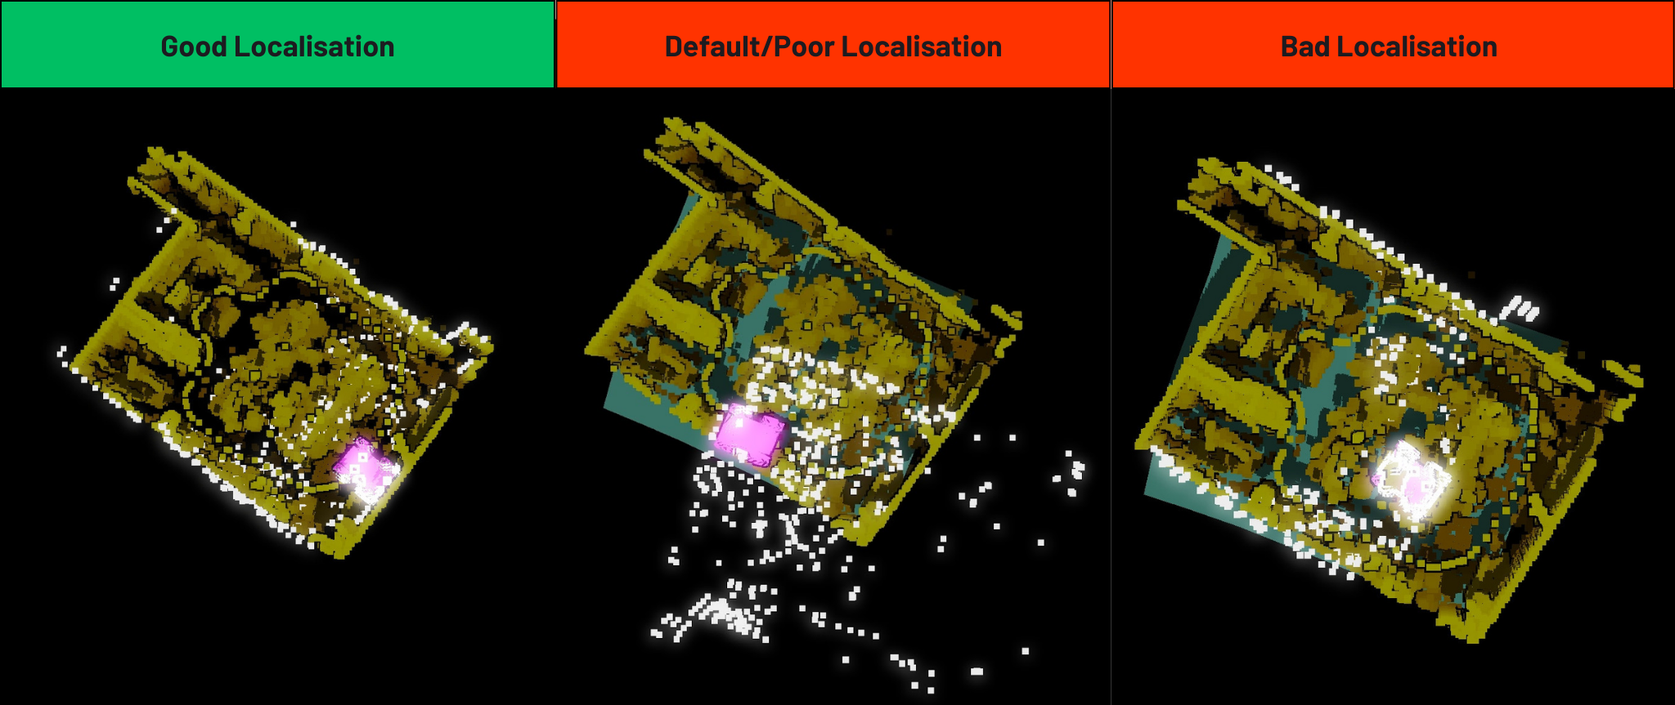
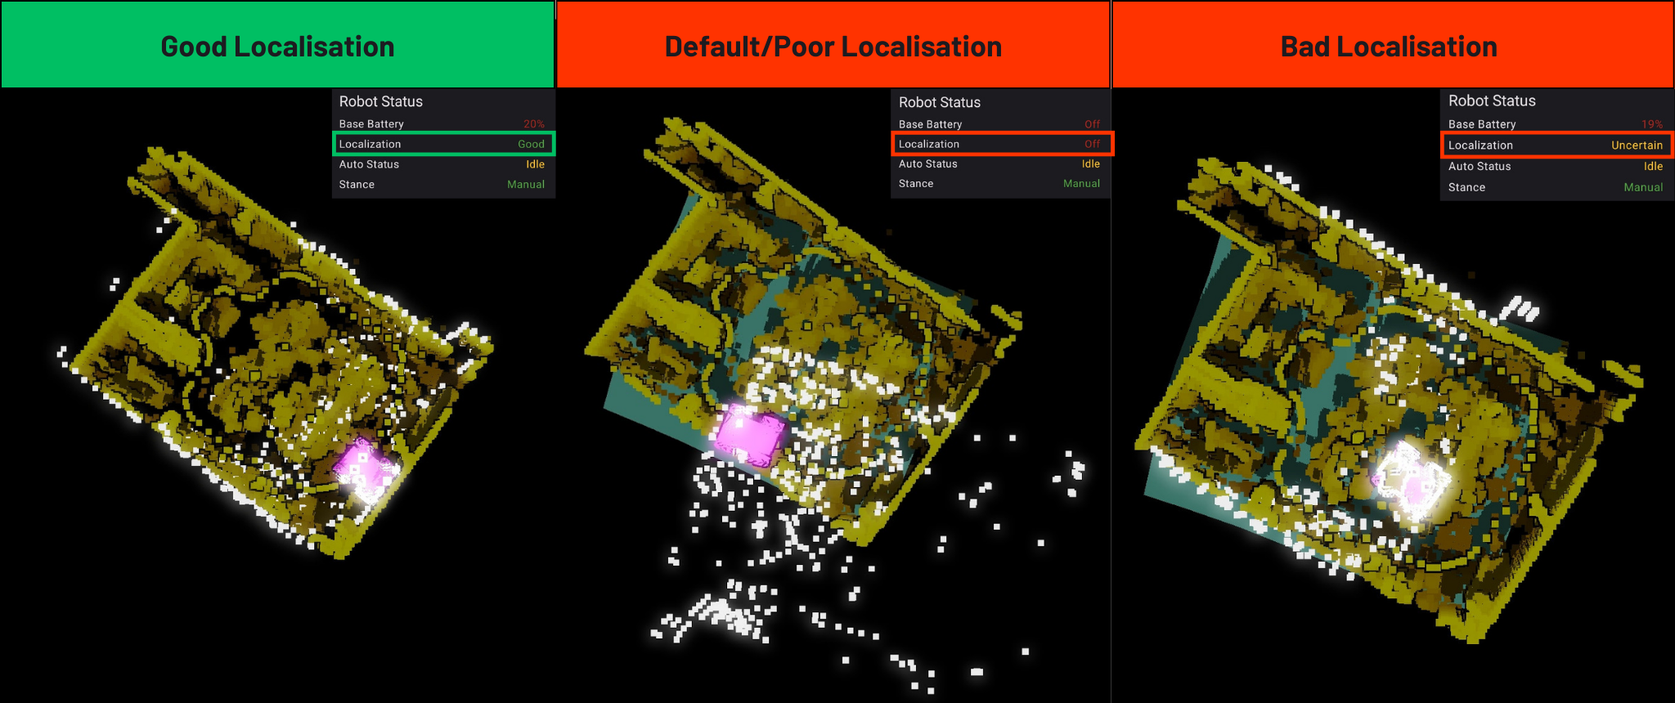
final draft

diff --git a/docs/dash-nav/dash-nav.md b/docs/dash-nav/dash-nav.md
@@ -53,19 +53,19 @@ An internet connection from your robot is required. Should you require d.ASH Nav
 
 ![Functionality Icon](img/pointer.png){ style="height:20px;" } Pilot
 
-Our Pilot framework offers high-performance, low-latency, long-range remote operations. It allows you to take manual control of your robots at any time, from any distance, and in any environment.
+Control your robots manually with low latency and high performance at any time, from any location, and in any setting.
 
 ![Functionality Icon](img/pointer.png){ style="height:20px;" } Live Video Streaming
 
-Our ultra-high-speed data streaming enables Pilot to stream live video feeds from robots, facilitating operation in environments with weak network infrastructure. Stay connected with minimal latency, you can take control across the country with d.ASH Nav.
+Use d.ASH Nav to stream live video camera feeds from your robots, facilitating operation in environments with weak network infrastructure. Stay connected with minimal latency and take control of your robot across the country with d.ASH Nav.
 
 ![Functionality Icon](img/pointer.png){ style="height:20px;" } Waypoint Autonomy
 
-d.ASH Nav determines the real-time location of connected robots within millimetres. Just drop and add waypoints like markings on a map to automated patrol routes all thanks to d.ASH Nav’s seamless UI.
+Empower your robots with d.ASH Nav's advanced route creation and optimization capabilities. Seamlessly set precise routes and execute BLK scans tailored to your unique use cases. Elevate your automation experience with our state-of-the-art Waypoint Autonomy feature.
 
 ![Functionality Icon](img/pointer.png){ style="height:20px;" } Enhanced Safety and Risk Mitigation
 
-The software’s intelligent decision-making capabilities enable robots to make informed choices to avoid obstacles and optimize their routes, mitigating potential risks and enhancing overall safety. This not only protects the robots themselves but also minimizes the risk of accidents or collisions with humans and other objects in the environment.
+d.ASH Nav enables robots to make informed choices to avoid obstacles and optimize their routes, mitigating potential risks while running routes and enhancing overall safety. This not only protects the robots themselves but also minimizes the risk of accidents or collisions with humans and other objects in the environment.
 
 Now, let's explore how to make the most out of d.ASH Nav on your devices.
 
@@ -74,7 +74,7 @@ Now, let's explore how to make the most out of d.ASH Nav on your devices.
 <div id="section2"></div> 
 
 ### 2. d.ASH Nav for Android
-This comprehensive guide will walk you through setting up the application and provide detailed insights into every function of the d.ASH Nav Mobile App. Additionally, you'll find step-by-step instructions on how to seamlessly control your robots directly from your mobile device.
+This comprehensive guide will walk you through setting up the application and give you detailed insights into every function of the d.ASH Nav Android Application. Additionally, you'll find step-by-step instructions on how to control your robots directly from your devices and create routes for waypoint automation.
 
 <div id="section2_1"></div> 
 
@@ -82,10 +82,10 @@ This comprehensive guide will walk you through setting up the application and pr
 Before installing, ensure that your mobile device meets the minimum system requirements. 
 
 #### Minimum System Requirements 
-Android Tablet with support for OpenGL ES 3.2
-Operating System: Android Version 13 | Tiramisu | API Level 33 
-CPU: Qualcomm SM7125 Snapdragon 720G (8 nm)
-GPU: Adreno 618
+Android Tablet with support for OpenGL ES 3.2<br>
+Operating System: Android Version 13 | Tiramisu | API Level 33<br>
+CPU: Qualcomm SM7125 Snapdragon 720G (8 nm)<br>
+GPU: Adreno 618<br>
 RAM: 4 GB
 
 <div id="section2_2"></div> 
@@ -104,14 +104,14 @@ The following section provides a step-by-step guide to help you record and set y
 | Instructions |
 | ------- | 
 | <div class="instructions-div"><div class="instruction-circle">1</div><p style="margin: 0; margin-left: 5px;">Connect to your robot and load your map into the application. </p></div><font size="3"><font size="2"> Refer to <a href="#section3_1">Section 3.1</a> and <a href="#section3_2">Section 3.2</a> for a guide for your robot and map respectively.|
-| <div class="instructions-div"><div class="instruction-circle">2</div><p style="margin: 0; margin-left: 5px;">Navigate into the ready tab and select localise. </p></div><font size="3"><font size="2"> Refer to <a href="#section5_3">Section 5.3</a> for a guide to giving your robot a good initial pose estimate. |
-| <div class="instructions-div"><div class="instruction-circle">3</div><p style="margin: 0; margin-left: 5px;">Inside the plan tab, select add new route and give your route a name.</p></div><font size="3">![Add Route Button](img/add-route-button.jpg){ style="width: 300px; margin-top: 10px;" }<br><font size="2"> Choose a name that is both memorable and descriptive. |
-| <div class="instructions-div"><div class="instruction-circle">4</div><p style="margin: 0; margin-left: 5px;">Press the record route button at the bottom right to record your route by moving the robot.</p></div><font size="3">![Record Route Button](img/record-route-button.jpg){ style="width: 50px; margin-top: 10px; }<br><font size="2"> Alternatively, you can refer to <a href="#section6_1_2">Section 6.1.2</a> to learn how to record your route by manually plotting waypoints onto the map. |
-| <div class="instructions-div"><div class="instruction-circle">5</div><p style="margin: 0; margin-left: 5px;">Use the joysticks to drive your robot along your preferred route. </p></div><font size="3"><font size="2"> Be sure to change the recording intervals and make use of the add point buttons while recording your route. For example, at sharp turns, you can change the recording interval lower to about 1 metre. |
-| <div class="instructions-div"><div class="instruction-circle">6</div><p style="margin: 0; margin-left: 5px;">Once you are satisfied with your route, select save recorded route.   </p></div><font size="3"><font size="2"> Or, if you would like to restart, select discard route at the bottom.  |
-| <div class="instructions-div"><div class="instruction-circle">7</div><p style="margin: 0; margin-left: 5px;">Optional: Choose the points in your route where you would like your robot to apply a BLK scan. </p></div><font size="3"><font size="2"> Refer to <a href="section6_1_4">Section 6.1.4</a> for a full guide on choosing waypoints to apply BLK scans.|
-| <div class="instructions-div"><div class="instruction-circle">8</div><p style="margin: 0; margin-left: 5px;">In the list of routes, press the route you just created and select set route located at the bottom of the screen. </p></div><font size="3"> |
-| <div class="instructions-div"><div class="instruction-circle">9</div><p style="margin: 0; margin-left: 5px;">Head back to the ready tab and change the control mode at the bottom to auto. </p></div><font size="3">![Control Mode Auto Toggle](img/control-mode-auto-toggle.png){ style="width: 300px; margin-top: 10px;" }<br><font size="2"> Well done! Your robot is now running on your recorded route that you have made.   |
+| <div class="instructions-div"><div class="instruction-circle">2</div><p style="margin: 0; margin-left: 5px;">Localise your robot onto the map. </p></div><font size="3"><font size="2"> Refer to <a href="#section5_3">Section 5.3</a> for a guide to giving your robot a good initial pose estimate. |
+| <div class="instructions-div"><div class="instruction-circle">3</div><p style="margin: 0; margin-left: 5px;">Inside the plan tab, select 'Add Route' and give your new route a name.</p></div><font size="3">![Add Route Button](img/add-route-button.jpg){ style="width: 300px; margin-top: 10px;" }<br><font size="2"> Choose a name that is both memorable and descriptive. |
+| <div class="instructions-div"><div class="instruction-circle">4</div><p style="margin: 0; margin-left: 5px;">Select the route you just created and press the 'Record Route' button at the bottom right to record your route by manually moving your robot.</p></div><font size="3">![Record Route Button](img/record-route-button.png){ style="width: 1000px; margin-top: 10px;"}<br><font size="2"> Alternatively, you can refer to <a href="#section6_1_2">Section 6.1.2</a> to learn how to record your route by manually plotting waypoints onto the map. |
+| <div class="instructions-div"><div class="instruction-circle">5</div><p style="margin: 0; margin-left: 5px;">Use the joysticks to drive your robot along your preferred route. </p></div><font size="3"><font size="2"> Be sure to change the recording intervals and make use of the 'Add Point' buttons while recording your route. For example, when turning the robot, you can lower down the recording interval to about 1 metre for a better route recording, or use the 'Add Point' button to plot waypoints close to each other in this turn. |
+| <div class="instructions-div"><div class="instruction-circle">6</div><p style="margin: 0; margin-left: 5px;">Once you are satisfied with your route, select 'Save Recorded Route'.   </p></div><font size="3"><font size="2"> Or, if you would like to restart, select discard route at the bottom.  |
+| <div class="instructions-div"><div class="instruction-circle">7</div><p style="margin: 0; margin-left: 5px;">Optional: Choose the points in your route where you would like your robot to apply a BLK scan. </p></div><font size="3"><font size="2"> Refer to <a href="#section6_1_3_2">Section 6.1.3.2</a> for a full guide on choosing waypoints to apply BLK scans.|
+| <div class="instructions-div"><div class="instruction-circle">8</div><p style="margin: 0; margin-left: 5px;">In the list of routes, press the route you just created and select 'Set Route' located at the bottom of the screen. </p></div><font size="3"> |
+| <div class="instructions-div"><div class="instruction-circle">9</div><p style="margin: 0; margin-left: 5px;">Head back to the 'Ready' tab and change the control mode at the bottom to 'Auto'. </p></div><font size="3">![Control Mode Auto Toggle](img/control-mode-auto-toggle.png){ style="width: 300px; margin-top: 10px;" }<br><font size="2"> Well done! Your robot is now running on your recorded route that you have made.   |
 
 If you do not have access to internet at the location where you want to run your robot processes, you can use [Offline Mode](#section7).
 
@@ -122,7 +122,7 @@ If you do not have access to internet at the location where you want to run your
 ### 3. Welcome to d.ASH Nav Mobile!
 
 After signing into your account, you'll be directed to the main page where you need to load your robot and map files in order to get started.
-![d.ASH Nav Home Page](img/dash-nav-home-page.jpg){ style="width: 1000px; margin-top: 10px; }
+![d.ASH Nav Home Page](img/dash-nav-home-page.jpg){ style="width: 1000px; margin-top: 10px;"}
 
 <div id="section3_1"></div>
 
@@ -130,9 +130,9 @@ After signing into your account, you'll be directed to the main page where you n
 
 | Instructions |
 | ------- | 
-| <div class="instructions-div"><div class="instruction-circle">1</div><p style="margin: 0; margin-left: 5px;">Turn on your robot</p></div><font size="3"><font size="2"> Typically, robots are activated automatically by attaching a battery and pressing the Power ON button/switch. However, for robots that require activation through software, like the Boston Dynamics Spot, please refer to the detailed instructions provided on the robot manufacturer's website for specific guidance. |
-| <div class="instructions-div"><div class="instruction-circle">2</div><p style="margin: 0; margin-left: 5px;">Connect to the robot's WiFi network</p></div><font size="3"><font size="2"> Open your mobile device's settings app, click on Connections -> Wi-Fi, and then connect to the network of your robot. After a successful connection, you should see 'Connected without internet' below the Wi-Fi network. If no network is found, it indicates that your robot may not have been turned on properly. |
-| <div class="instructions-div"><div class="instruction-circle">3</div><p style="margin: 0; margin-left: 5px;">Return to the application. On the left hand side, click here to select your robot.</p></div><font size="3"><font size="2">![Select Robot](img/select-robot.png){ style="margin-top: 10px; } |
+| <div class="instructions-div"><div class="instruction-circle">1</div><p style="margin: 0; margin-left: 5px;">Turn on your robot.</p></div><font size="3"><font size="2"> Typically, robots are activated automatically by attaching a battery and pressing the Power ON button/switch. However, for robots that require activation through software, like the Boston Dynamics Spot, please refer to the detailed instructions provided on the robot manufacturer's website for specific guidance. |
+| <div class="instructions-div"><div class="instruction-circle">2</div><p style="margin: 0; margin-left: 5px;">Ensure that your device is connected to the internet.</p></div><font size="3"><font size="2">  |
+| <div class="instructions-div"><div class="instruction-circle">3</div><p style="margin: 0; margin-left: 5px;">Return to the application. On the left hand side, click on this button boxed in red to select your robot.</p></div><font size="3"><font size="2">![Select Robot](img/select-robot.png){style="margin-top: 10px;"} |
 | <div class="instructions-div"><div class="instruction-circle">4</div><p style="margin: 0; margin-left: 5px;">Choose the robot that you intend to use.</p></div><font size="3"><font size="2"> If your robot is not found, try to hard restart your robot or contact us for support. |
 
 <div id="section3_2"></div>
@@ -142,15 +142,13 @@ After signing into your account, you'll be directed to the main page where you n
 | Instructions |
 | ------- | 
 | <div class="instructions-div"><div class="instruction-circle">1</div><p style="margin: 0; margin-left: 5px;">Ensure that you have your map file.</p></div><font size="3"><font size="2"> If you do not have one, please refer to our [d.ASH Pack](https://dconstruct-tech.github.io/dash-sdk/dash-pack/dash-pack/) guide to create your map.|
-| <div class="instructions-div"><div class="instruction-circle">2</div><p style="margin: 0; margin-left: 5px;">On the left hand side, click on this button to select your map.</p></div><font size="3"><font size="2">![Select Map Button](img/select-map-button.png){style="margin-top: 10px;"}|
+| <div class="instructions-div"><div class="instruction-circle">2</div><p style="margin: 0; margin-left: 5px;">On the left hand side, click on this button boxed in red to select your map.</p></div><font size="3"><font size="2">![Select Map Button](img/select-map-button.png){style="margin-top: 10px;"}|
 | <div class="instructions-div"><div class="instruction-circle">3</div><p style="margin: 0; margin-left: 5px;">Select the map that you intend to use.</p></div><font size="3"><font size="2">![Select Map Panel](img/select-map-panel.jpg){style="margin-top: 10px;"}|
 
-
-Your robot and map has now been imported into d.ASH Nav. 
+Your robot and map has now been loaded into d.ASH Nav. 
 ![Both Robot and Map Imported](img/both-imported-view.png){style="margin-top: 10px;"}
 
-Select the menu icon on the top right hand corner to open up the options menu, where all functions and configurations are found.<br> 
-
+Select the 'Menu' icon on the top right hand corner to open up the options menu, where all functions and configurations are found.<br> 
 
 The following sections will go over the functions in the <a href="#section4">View</a> tab, which is responsible for changing the view of your map, as well as the <a href="#section6">Plan</a> and <a href="#section5">Ready</a> tabs which are responsible for all robot operations. 
 
@@ -161,29 +159,30 @@ The following sections will go over the functions in the <a href="#section4">Vie
 <div id="section4"></div>
 
 ### 4. View Tab
-The view tab contains options for changing the view and configuring the map that was imported into the application.
+The view tab contains options for changing the view and configuring the map that was loaded into the application.
 
 <div id="section4_1"></div>
 
 #### 4.1 Adjusting your view of the map
 ![Functionality Icon](img/pointer.png){ style="height:20px;" } Pinch to zoom in or zoom out
+
 ![Functionality Icon](img/pointer.png){ style="height:20px;" } Swipe with one finger to adjust view angle
+
 ![Functionality Icon](img/pointer.png){ style="height:20px;" } Swipe with two fingers to move around the map
 
 ![Adjust View GIF](img/adjust-view.gif)
 
-Select this button on the top left corner to reset view to default. 
+Select this button on the top left corner to reset view to default.<br>
 ![Reset View Button](img/reset-view.png){style="margin-top: 10px;"}
 
 <div id="section4_2"></div>
 
 #### 4.2 Map View Configurations
 ##### Clipping 
-Move the points on the range slider to adjust how much floor/ceiling is shown on the map of your application. 
+Move the points on the range slider to adjust how much floor/ceiling is shown on the map of your application.
 ![Clipping Visualisations](img/clipping.png){style="width: 600px; margin-top: 10px;" }
 
 ##### Contours
-Toggle on and off or adjust the contour level to change the amount of detail in data points. 
 Toggle on and off or adjust the contour level to adjust contour sensitivity. 
 ![Contour Visualisations](img/contour.png){style="width: 600px; margin-top: 10px;"}
 
@@ -191,12 +190,10 @@ Toggle on and off or adjust the contour level to adjust contour sensitivity.
 
 #### 4.3 Example of a bad map visualization
 The View Tab allows you to customise your map-viewing experience within the application. It provides you with the flexibility to configure the settings according to your preferences. While keeping the default settings is perfectly acceptable, it's recommended to adjust the thumbs in a way that ensures the floor of the map is visible, the ceiling is hidden, and artefacts remain visible for optimal viewing.
-
-![Bad Visualisations Example](img/bad-visualization.jpg){style="width: 600px;"}
+![Bad Visualisations Example](img/bad-visualization.jpg){style="width: 600px; margin-top: 10px;"}
 
 The ceiling covers the entire map and you are unable to see the artifacts below, hence this is a bad map visualization. To make this visualization better and clearer, let's adjust the ceiling knob lower until the ceiling is hidden.
-
-![Adjust Ceiling GIF](img/adjust-ceiling.gif){style="width: 600px; "}
+![Adjust Ceiling GIF](img/adjust-ceiling.gif){style="width: 600px; margin-top: 10px;"}
 
 This way, we can better see where our robot is located on the map when we run a route or control the robot.
 
@@ -205,16 +202,14 @@ This way, we can better see where our robot is located on the map when we run a 
 <div id="section5"></div>
 
 ### 5. Ready Tab
-Within this tab, you will find all the functions for managing the robot's live video streaming, manual controlling, and localization, which is essential for the Plan tab. 
+Within this tab, you will find all the functions for managing the robot's live video camera streaming, taking manual control of your robot, and localisation, which is essential for the 'Plan' tab. 
 
 <div id="section5_1"></div>
 
 #### 5.1 Live video streaming 
 To see your robot's camera view, select or toggle the camera options here. This can be found in the options menu on the right. 
-
-![Camera View GIF](img/camera-view.gif){style="width: 600px;"}
-
-You can also enlarge the camera view by pressing the enlarge button on the top left corner and adjust the size to your preference. 
+![Camera View GIF](img/camera-view.gif){style="width: 600px; margin-top: 10px;"}
+You can also enlarge the camera view by pressing the enlarge button on the top left corner and adjusting the size to your preference. 
 
 <div id="section5_2"></div>
 
@@ -222,27 +217,25 @@ You can also enlarge the camera view by pressing the enlarge button on the top l
 
 | Instructions |
 | ------- | 
-| <div class="instructions-div"><div class="instruction-circle">1</div><p style="margin: 0; margin-left: 5px;">To move your robot, switch the control mode at the bottom of the application to manual mode.</p></div><fonst size="3">![Control Mode Toggle](img/control-mode-toggle.png){style="width: 300px; margin-top: 10px;"}<br><font size='2'>Ensure that you are on the ready tab. |
-| <div class="instructions-div"><div class="instruction-circle">2</div><p style="margin: 0; margin-left: 5px;"> Use the joysticks at the bottom to move your robot. </p></div><font size="3">![Manual Control Mode](img/manual-control-mode.jpg){style="width: 400px; margin-top: 10px;"}<font size="2"><br>The joystick on the left is used to move the robot front and backwards, while the right joystick is used to turn the robot left and right.|
+| <div class="instructions-div"><div class="instruction-circle">1</div><p style="margin: 0; margin-left: 5px;">To move your robot, switch the control mode at the bottom of the application to 'Manual' mode.</p></div><fonst size="3">![Control Mode Toggle](img/control-mode-toggle.png){style="width: 300px; margin-top: 10px;"}<br><font size='2'>Ensure that you are on the ready tab. |
+| <div class="instructions-div"><div class="instruction-circle">2</div><p style="margin: 0; margin-left: 5px;"> Use the joysticks at the bottom to move your robot. </p></div><font size="3">![Manual Control Mode](img/manual-control-mode.jpg){style="width: 400px; margin-top: 10px;"}<font size="2"><br>The joystick on the left is used to move the robot front and backwards, while the joystick on the right is used to turn the robot left and right. |
 
 <div id="section5_3"></div>
 
-#### 5.3 Localizing your robot 
+#### 5.3 Localising your robot 
 
-Before delving into the features in the planning tab, it is essential to establish an initial pose estimate to initiate the robot's localisation. Localisation is a crucial step for the robot to accurately determine its position within the provided point cloud map. This process is a prerequisite for enabling autonomy on the robot.
+Before delving into the features in the planning tab, it is essential to establish an initial pose estimate to localise your robot. Localisation is a crucial step for the robot to accurately determine its position within the provided point cloud map. This process is a prerequisite for enabling autonomy on the robot.
 
 | Instructions |
 | ------- | 
-| <div class="instructions-div"><div class="instruction-circle">1</div><p style="margin: 0; margin-left: 5px;">On the top of the right panel of the application, press the Localise button.</p></div><fonst size="3">![Localize Button](img/localize-button.png){style="margin-top: 10px; width: 300px;"}<br><font size='2'>Ensure that you are on the ready tab. Here, you can also find your robot status and see information like the battery, localisation and stance.|
-| <div class="instructions-div"><div class="instruction-circle">2</div><p style="margin: 0; margin-left: 5px;">Localise the robot by matching the point cloud of the current lidar scan to the map.</p></div><font size="3"><font size="2"> Press on the point of the map where the robot is located and drag it to the direction it is facing. Then, use the directional arrows to adjust the robot's LiDAR's point cloud to fit the map.![Localize Demo GIF](img/localize-demo.gif){style="margin-top: 10px;"}<br>Alternatively, you can use the rotation button to adjust and improve your pose estimate.<br>![Localize Rotation](img/localize_rotation.gif){style="margin-top: 10px;"} |
+| <div class="instructions-div"><div class="instruction-circle">1</div><p style="margin: 0; margin-left: 5px;">Inside the options panel of the 'Ready' tab, press the 'Localise' button.</p></div><fonst size="3">![Localize Button](img/localize-button.png){style="margin-top: 10px; width: 300px;"}<br><font size='2'>Here, you can also find your robot status and see information like the battery level, localisation and stance. |
+| <div class="instructions-div"><div class="instruction-circle">2</div><p style="margin: 0; margin-left: 5px;">Localise the robot by matching the point cloud of the current lidar scan to the map.</p></div><font size="3"><font size="2"> Use the following buttons to help you achieve a good localisation.<br>![Localize Button Options](img/localize-buttons-options.png){style="width: 400px;margin-top: 10px;"}<br>Set Initial Pose: Press on the point of the map where the robot is located and drag it to the direction it is facing.<br> Rotate Pose: Used to adjust the rotation of the robot's LiDAR scan.<br>Move Pose: Used to move the robot's LiDAR scan around the map.<br><br> To localize your robot, start by selecting the 'Set Initial Pose' button. Press on the point of the map where the robot is located and drag it to the direction it is facing. Then, use the directional arrows in 'Move Pose' to adjust the robot's LiDAR point cloud to fit the map as shown in the example below.![Localize Demo GIF](img/localize-demo.gif){style="margin-top: 10px;"}<br>Additionally, you can use 'Rotate Pose' to rotate the LiDAR point cloud to make fitting it to the map easier.<br>![Localize Rotation](img/localize_rotation.gif){style="margin-top: 10px;"}<br> Refer to the examples below for instances of successful robot localisation. ![Localisation Examples](img/localisation.png){style="margin-top: 10px;"}The localisation of the robot is good when the robot's current LiDAR scan (white points) is aligned well to the map, meaning it has a good initial pose estimate. The localisation on the other two examples are bad as the LiDAR scan does not line up with the map, and the robot is in the wrong position.  |
 | <div class="instructions-div"><div class="instruction-circle">3</div><p style="margin: 0; margin-left: 5px;">Bring down the plane of the map.</p></div><font size="3"><font size="2"> Using the slider on the left, adjust the map plane such that the floor of the map is now visible. |
+| <div class="instructions-div"><div class="instruction-circle">4</div><p style="margin: 0; margin-left: 5px;">Once you are done with setting your robot's initial pose estimate, select the 'Done' button.</p></div><font size="3"><font size="2"> On the other hand, if you would like to restart the localisation process, press on the 'Reset Pose' button. |
 
-Upon submitting the initial pose estimate, the robot will attempt to determine its current position on the map. During this process, there may be a momentary "jump" in the robot's position. Users are advised to wait for a few seconds to ensure that the robot stabilises and remains at the correct position.
+Upon submitting the initial pose estimate, the robot will attempt to determine its current position on the map. During this process, there may be a momentary "jump" in the robot's position. You are advised to wait for a few seconds to ensure that the robot stabilises and remains at the correct position. Alternatively, you can manually move the robot around using the robot's controller to ensure that the LiDAR point cloud is still aligned with the map. 
 
-Refer to the examples below for instances of successful robot localisation.
-![Localisation](img/localisation.png){style="margin-top: 10px;"}
-
-The localisation of the robot is good when the robot's current LiDAR scan (white points) is aligned well to the map, meaning it has a good initial pose estimate. The localisation on the other two examples are bad as the LiDAR scan does not line up with the map, and the robot is in the wrong position. 
+Redo the localisation process if the LiDAR point cloud no longer aligns with your map. 
 
 ---
 
@@ -254,56 +247,50 @@ The plan tab is used for preparing routes for your robots to follow and apply BL
 <div id="section6_1"></div>
 
 #### 6.1 Creating your route
-Before starting, ensure that you have our localised your robot to the map. Refer to [Section 5.3](#section5_3) if you require a guide to localise your robot onto the map. <br>
-At the bottom right corner of your screen, select on the 'App Route' button.
+Before starting, ensure that you have our localised your robot to the map. Refer to [Section 5.3](#section5_3) if you require a guide to localise your robot onto the map. 
 
-![Add Route Button](img/add-route-button.jpg){style="width: 300px;"}
+At the bottom right corner of your screen, select on the 'Add Route' button.<br>    
+![Add Route Button](img/add-route-button.jpg){style="width: 300px; margin-top: 10px'"}
 
-Give your new route a name. Try to use a name that is descriptive and well labelled.
+Give your new route a name. It is advised to use a name that is descriptive and well labelled.<br>
 ![Add New Route](img/add-new-route.jpg){style="width: 250px; margin-top: 10px;"}
-![Add New Route](img/add-new-route.jpg){style="width: 250px; margin-top: 10px;"}
-
-You will then be directed to the route edit view. Here, you will be able to add and remove waypoints, change the configurations of BLK scanning, and generate scanning points around the map.
-![Set Route View](img/set-route-view.jpg){style="margin-top: 10px;"}
 
 <div id="section6_1_1"></div>
 
-#### 6.1.1 Setting route by waypoints
-![Set Route Buttons](img/set-route-buttons.png){style="width: 300px;"}
+#### 6.1.1 Create routes by manually controlling of your robot
+From the list of routes on the right side, select the route that you have just created and press the 'Record Route' button boxed in red to record your route. 
+![Record Route Button](img/record-route-button.png){style="margin-top: 10px;"}
 
-To set your route, you can do it by manually making waypoints for the robot to follow. To do this, select the Add Mode button at the bottom of the screen. 
-
-![Selected Add Mode](img/selected-add-mode.jpg){style="width: 300px;"}
-![Selected Add Mode](img/selected-add-mode.jpg){style="width: 300px;"}
-
-Plot the various points on the map that you want your robot to go. Ensure that the points are next to each other, avoiding any obstacles in the map and hence in real life.
-
-![Setting Route By Waypoint GIF](img/setting-route-by-waypoint.gif){style="width: 400px;"}
-
-If you want to delete a waypoint, select the Remove Mode button, and click on the waypoints that you would like to delete.
-
-![Selected Remove Mode](img/selected-remove-mode.png){style="width: 400px; margin-top: 10px;"}
-
-Once you are finished with manually plotting your route, select the Done button on the left of the mode buttons. 
-
-<div id="section6_1_2"></div>
-
-#### 6.1.2 Setting route via manual control of your robot
-Add a new route and give it a name. Once you've created a new route, exit back to the routes page by pressing the done button. 
-On the bottom right of your map screen, click on this button.
-
-![Record Route Button](img/record-route-button.jpg){style="width: 55px; margin-top: 10px;"}
-
-You will now have to manually control your robot around the map to create the path. Use the joysticks and 'Add Point' buttons to make your route. 
-You are advised to use a smaller recording interval (1 metre or smaller) when making turns. 
-
+You will then be directed to the route recording view. Here, you will be able to use the joysticks and 'Add Point' buttons at the bottom to manually control your robot, creating your route. 
+You are advised to use a smaller recording interval (1 metre or smaller) when making turns. <br>
 ![Record Route View GIF](img/record-route-view.gif){style="margin-top: 10px;"}
 
 After moving your robot, you should see a blue-coloured path being formed by the robot. This is the path your robots will follow when you run the route you are creating.
 
-Once you are finished with setting your route, press 'Save Recorded Route' at the bottom of the screen and you will be directed back to the routes page with your new route saved. 
+Once you are finished with setting your route, press 'Save Recorded Route' at the bottom of the screen and you will be directed back to the routes page with your new route saved. Now, you will be able to make your robot run the route you have created. Refer to [Section 6.3](#section6_3).
 
-Now, you will be able to make your robot run the route you have created. Refer to [Section 6.3](#section6_3).
+<div id="section6_1_2"></div>
+
+#### 6.1.2 Create routes by plotting waypoints on the map
+From the list of routes on the right side, select the route that you have just created and press this button boxed in red to record your route. <br>
+![Edit Waypoint Button](img/edit-waypoint-route-button.png){style="width: 800px; margin-top: 10px;"}<br>
+You will then be directed to the waypoint editing page.<br>
+![Set Route Page View](img/set-route-view.jpg){style="width: 800px;"}<br>
+Here, you will be able to use the buttons below to add, delete and move waypoints around the map to create the final route for your robot to follow. <br>
+![Set Route Buttons](img/set-route-buttons.png){style="width: 300px; margin-top: 10px;"}
+
+To set your route, you can add waypoints around the map. Select the 'Add Mode' button at the bottom of the screen. <br>
+![Selected Add Mode](img/selected-add-mode.jpg){style="width: 300px; margin-top: 10px;"}
+
+Then, plot the various points on the map where you want your robot to go to. Ensure that the points are next to each other, avoiding any obstacles in the map and hence in real life.<br>
+![Setting Route By Waypoint GIF](img/setting-route-by-waypoint.gif){style="width: 400px; margin-top: 10px;"}
+
+If you want to delete a waypoint, select the 'Remove Mode' button, and click on the waypoints that you would like to delete.
+![Selected Remove Mode](img/selected-remove-mode.png){style="width: 400px; margin-top: 10px;"}
+
+If you would like to move one of your waypoints, select the 'Move Mode' button and press on the waypoint that you would like to move. Drag this waypoint to your desired location on the map. 
+
+Once you are finished with plotting your route, select the 'Done' button on the left of the mode buttons. Now, you will be able to make your robot run the route you have created. Refer to [Section 6.3](#section6_3).
 
 <div id="section6_1_3"></div>
 
@@ -314,16 +301,16 @@ Before setting BLK scan points, you can configure your LiDAR configurations depe
 
 #### 6.1.3.1 BLK Configurations
 ##### LiDAR Scan Quality
-LiDar Scan Quality is the rate of how fast the LiDar spins, with low being the slowest and high being the fastest. Adjusting the LiDar Scan Quality would affect the amount of generated data points in your point cloud map. 
+
+LiDAR Scan Quality affects the rotation speed of the LiDAR, with "Low" indicating a slower rate and "High" representing a faster rate. Adjusting this setting directly impacts the density of data points generated in your point cloud map.
 
 ![LiDAR Scan Quality Options](img/lidar-scan-quality-options.jpg){style="width: 200px;"}
 
-![Functionality Icon](img/pointer.png){ style="height:20px;" } Low: Resulting point cloud map after scan will be least detailed but generation speed is much faster. Usually used in situations where the environment that you want to scan is simple and does not require much detail.
+![Functionality Icon](img/pointer.png){ style="height:20px;" } Low: This option would produce a sparse point cloud map, but it does so at a much quicker rate.
 
+![Functionality Icon](img/pointer.png){ style="height:20px;" } Medium: This option strikes a balance between point cloud density and scanning efficiency.
 
-![Functionality Icon](img/pointer.png){ style="height:20px;" } Medium: Resulting point cloud map after scan will have a satisfactory level of detail for most applications. This setting is suitable for environments that have a moderate level of complexity, where you want a reasonable level of detail without sacrificing scanning efficiency.
-
-![Functionality Icon](img/pointer.png){ style="height:20px;" } High: Resulting point cloud map after scan will be very detailed but generation speed is much slower.
+![Functionality Icon](img/pointer.png){ style="height:20px;" } High: This option will generate a dense point cloud map, but it takes considerably more time to do so.
 
 ##### Image Capture Mode
 
@@ -335,14 +322,12 @@ LiDar Scan Quality is the rate of how fast the LiDar spins, with low being the s
 
 ![Functionality Icon](img/pointer.png){ style="height:20px;" } HDR (High Dynamic Range): More detail in both highlights and shadows can be captured. 
 
-
 <div id="section6_1_3_2"></div>
 
 #### 6.1.3.2 Auto generation of scan points
 In this section, you can automatically generate BLK scanning points in your route based on the distance travelled by the robot.
 
-To enable this feature, turn this option on and set a distance interval. If your set distance interval is two metres, the robot will run a BLK scan every two metres travelled on your route.
-
+To enable this feature, turn this option on and set a distance interval. If your set distance interval is two metres, the robot will run a BLK scan roughly every two metres travelled along your route.
 ![Auto Generate Scan Points GIF](img/auto-generate-scan-points.gif){style="margin-top: 10px;"style="margin-top: 10px;"}
 The generated blinking points on the map is where your robot will apply a BLK scan. 
 
@@ -363,10 +348,10 @@ Navigate to the right-hand side, where you'll find a list of the routes you've c
 #### 6.3 Running your routes
 | Instructions |
 | ------- | 
-| <div class="instructions-div"><div class="instruction-circle">1</div><p style="margin: 0; margin-left: 5px;">Select the route that you would like to run.</p></div><fonst size="3"><font size='2'>You can find your routes in the routes section of the plan tab.|
-| <div class="instructions-div"><div class="instruction-circle">2</div><p style="margin: 0; margin-left: 5px;">Once select, press the Set Route button located at the bottom of the screen.</p></div><font size="3"><font size="2">![Run Route View](img/run-route-view.png){style="margin-top: 10px; width: 1000px;"}|
-| <div class="instructions-div"><div class="instruction-circle">3</div><p style="margin: 0; margin-left: 5px;">Switch to the ready tab.</p></div><fonst size="3"><font size='2'>|
-| <div class="instructions-div"><div class="instruction-circle">4</div><p style="margin: 0; margin-left: 5px;">Switch the control mode to Auto.</p></div><fonst size="3"><font size='2'>![Control Mode Auto Toggle](img/control-mode-auto-toggle.png){style="width: 300px; margin-top: 10px;"}|
+| <div class="instructions-div"><div class="instruction-circle">1</div><p style="margin: 0; margin-left: 5px;">Select the route that you would like to run.</p></div><fonst size="3"><font size='2'>You can find your routes in the routes section of the 'Plan' tab.|
+| <div class="instructions-div"><div class="instruction-circle">2</div><p style="margin: 0; margin-left: 5px;">Once select, press the 'Set Route' button located at the bottom of the screen.</p></div><font size="3"><font size="2">![Run Route View](img/run-route-view.png){style="margin-top: 10px; width: 1000px;"}|
+| <div class="instructions-div"><div class="instruction-circle">3</div><p style="margin: 0; margin-left: 5px;">Switch to the 'Ready' tab.</p></div><fonst size="3"><font size='2'>|
+| <div class="instructions-div"><div class="instruction-circle">4</div><p style="margin: 0; margin-left: 5px;">Switch the control mode to 'Auto'.</p></div><fonst size="3"><font size='2'>![Control Mode Auto Toggle](img/control-mode-auto-toggle.png){style="width: 300px; margin-top: 10px;"}|
 | <div class="instructions-div"><div class="instruction-circle">5</div><p style="margin: 0; margin-left: 5px;">Your robot will now run and follow the route that you've created.</p></div><fonst size="3"><font size='2'>|
 
 <div id="section7"></div>
@@ -374,20 +359,20 @@ Navigate to the right-hand side, where you'll find a list of the routes you've c
 #### 7. Offline Mode
 If your scanning location does not have internet access, you can connect to your robot's hotspot through your device's Wi-Fi settings and use offline mode to login to your robot to carry out the same tasks as you would in online mode. To use this, you may follow the instructions below. 
 
-Before using offline mode, ensure that your map has already been downloaded in online mode. This is because there is no internet connection and the app is unable to fetch the maps on your server.  Refer to [Section 3.2](#section3_2) for a guide on loading your map into the application. 
+Before using offline mode, ensure that your map has already been downloaded in online mode. This is because there is no internet connection and the app is unable to fetch the maps from your cloud.  Refer to [Section 3.2](#section3_2) for a guide on loading your map into the application. 
  
 | Instructions |
 | ------- | 
-| <div class="instructions-div" id="step1"><div class="instruction-circle">1</div><p style="margin: 0; margin-left: 5px;">Set a local password to enable local robot login</p></div><fonst size="3"><font size='2'>Logged into the application (online mode), head into the ready tab and select set local password on the right of the screen.<br>![Set Local Password](img/set-local-password.jpg){style="width: 300px; margin-top: 10px;"}<br>For security purposes, you are advised to use a strong password that you can remember to prevent unauthorised access to your robot.<br>![Local Password Prompt](img/local-password-prompt.jpg){style="width: 300px;"} |
+| <div class="instructions-div" id="step1"><div class="instruction-circle">1</div><p style="margin: 0; margin-left: 5px;">Set a local password to enable local robot login</p></div><fonst size="3"><font size='2'>Logged into the application (online mode), head into the 'Ready' tab and select 'Set Local Password' on the right of the screen.<br>![Set Local Password](img/set-local-password.jpg){style="width: 300px; margin-top: 10px;"}<br>For security purposes, you are advised to use a strong password that you can remember to prevent unauthorised access to your robot.<br>![Local Password Prompt](img/local-password-prompt.jpg){style="width: 300px; margin-top: 10px;"} |
 | <div class="instructions-div"><div class="instruction-circle">2</div><p style="margin: 0; margin-left: 5px;">Connect to your robot's Wi-Fi hotspot.</p></div><fonst size="3"><font size='2'>Navigate into your device's settings, connections -> Wi-Fi, and connect to your robot's hotspot network. <br> ![Connected To Robot WiFi](img/connected-to-robot-wifi.jpg){style="width: 600px; margin-top: 10px;"}<br>Your robot's Wi-Fi network name and password will be provided to you. If you have trouble connecting to your robot's network, please contact us for support. |
 | <div class="instructions-div"><div class="instruction-circle">3</div><p style="margin: 0; margin-left: 5px;">Head back into the application and enter offline mode that can be found in the login page.</p></div><fonst size="3"><font size='2'>![Offline Mode Button](img/offline-mode-button.png){style="width: 600px; margin-top: 10px;"}<br>|
-| <div class="instructions-div"><div class="instruction-circle">4</div><p style="margin: 0; margin-left: 5px;">Connect to your robot.</p></div><fonst size="3"><font size='2'>On the left hand side of the main page, select on this button to connect to your robot.<br>![Select Robot](img/select-robot.png){style="width: 300px;"}<br>Your robot should appear now in the form of its IP address. Select it and enter the local password that you have previously set in <a href="#step1">Step 1</a> to finally login.<br>![Offline Mode Connect To Robot](img/offline-mode-connect-to-robot.jpg){style="width: 600px; margin-top: 10px;"}|
+| <div class="instructions-div"><div class="instruction-circle">4</div><p style="margin: 0; margin-left: 5px;">Connect to your robot.</p></div><fonst size="3"><font size='2'>On the left hand side of the main page, select on this button boxed in red to connect to your robot.<br>![Select Robot](img/select-robot.png){style="width: 300px; margin-top: 10px;"}<br>Your robot should appear now in the form of its IP address.<br>![Offline Mode Connect To Robot](img/offline-mode-connect-to-robot.jpg){style="width: 600px; margin-top: 10px;"}<br>Select your robot and enter the local password that you have previously set in [Step 1](#step1) to finally login.|
 
 You are now using offline mode. Now, you will be able to access the application's functionalities in locations without internet access.
 
 ---
 
 That is all for d.ASH Nav!
-If you require any support, please feel free to contact us <a href="#">here</a> if you encounter any difficulties.
+If you require any support, please feel free to contact us here if you encounter any difficulties.
 
 This document was last updated on: 9 October 2023
